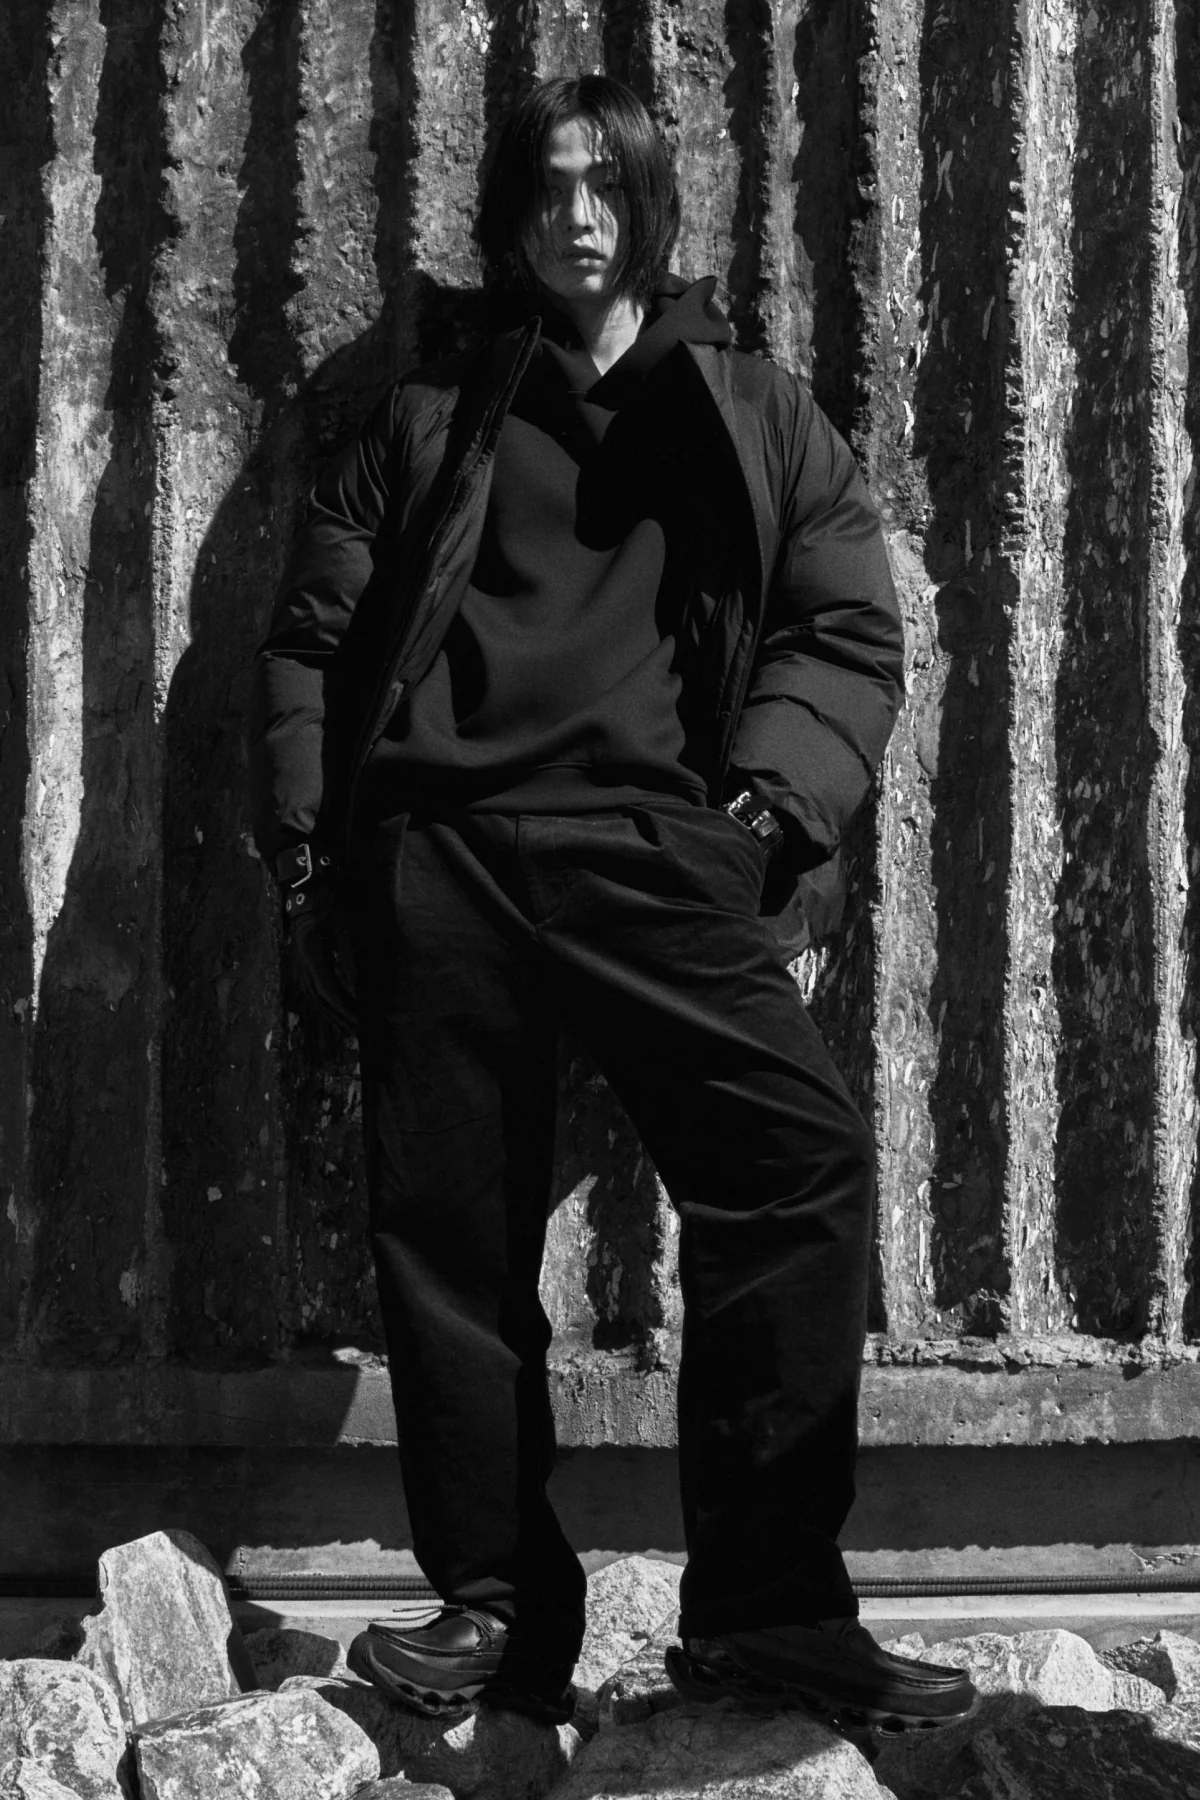
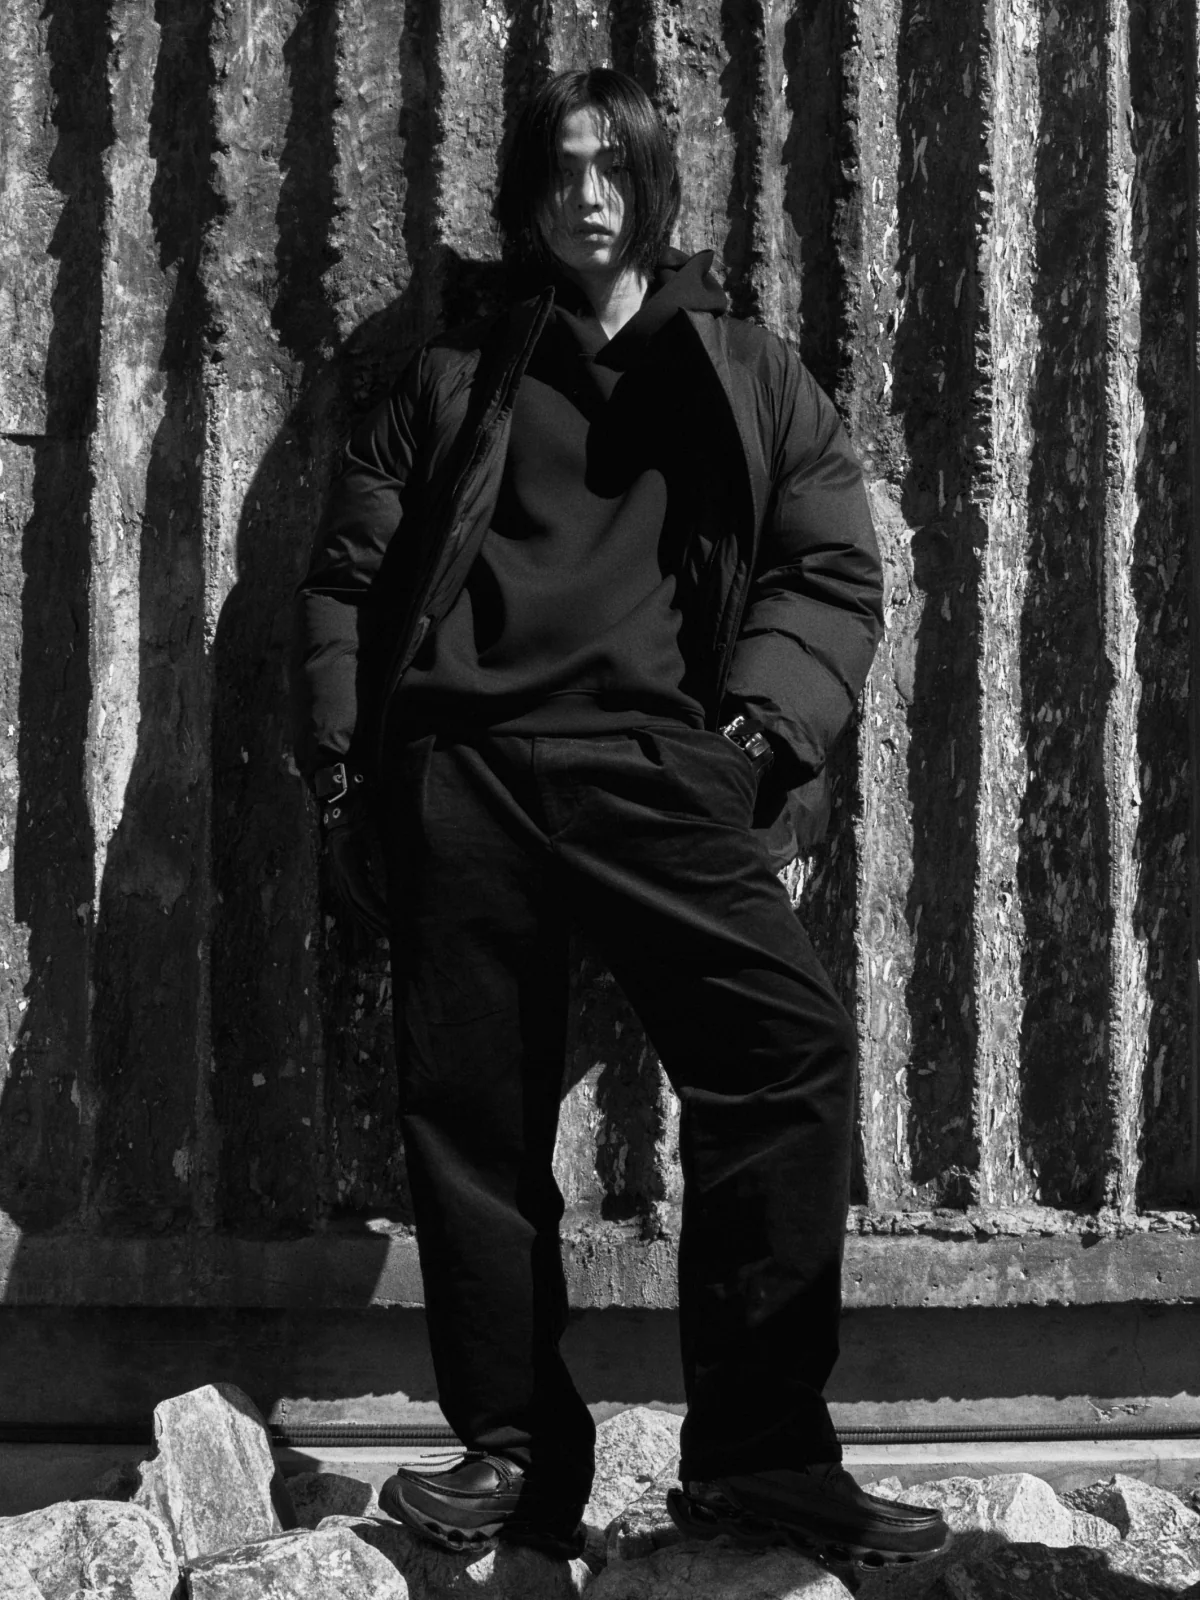
Collection: 3:4 product shots (Figma PD_list 2668:2491, 600×800 frames)

diff --git a/jp/index.html b/jp/index.html
@@ -38,7 +38,7 @@
   <link rel="stylesheet" href="https://cdn.jsdelivr.net/gh/orioncactus/pretendard@v1.3.9/dist/web/static/pretendard.min.css" />
   <link rel="stylesheet" href="https://fonts.googleapis.com/css2?family=Noto+Sans+JP:wght@400&display=swap" />
   <link rel="stylesheet" href="https://cdn.jsdelivr.net/gh/orioncactus/pretendard@v1.3.9/dist/web/static/pretendard-jp.min.css" />
-  <link rel="stylesheet" href="../style.css?v=20261012144335" />
+  <link rel="stylesheet" href="../style.css?v=20261012152353" />
   <script type="importmap">{ "imports": { "three": "https://unpkg.com/three@0.160.0/build/three.module.min.js" } }</script>
   <script>
     // The intro plays until it has been seen through once in this browsing
@@ -231,39 +231,39 @@
         <div class="collection__track" data-drag-scroll data-lenis-prevent-horizontal>
           <ul class="collection__strip">
           <li class="product">
-            <div class="product__media"><img src="../img/product-1@2x.webp" srcset="../img/product-1@1x.webp 600w, ../img/product-1@2x.webp 1200w" sizes="(max-width: 767px) 48vw, 315px" width="1200" height="1800" alt="" loading="lazy" /></div>
+            <div class="product__media"><img src="../img/product-1@2x.webp" srcset="../img/product-1@1x.webp 600w, ../img/product-1@2x.webp 1200w" sizes="(max-width: 767px) 48vw, 315px" width="1200" height="1600" alt="" loading="lazy" /></div>
             <p class="product__name">SHELTER 3LAYER JUMPER</p>
           </li>
           <li class="product">
-            <div class="product__media"><img src="../img/product-2@2x.webp" srcset="../img/product-2@1x.webp 600w, ../img/product-2@2x.webp 1200w" sizes="(max-width: 767px) 48vw, 315px" width="1200" height="1800" alt="" loading="lazy" /></div>
+            <div class="product__media"><img src="../img/product-2@2x.webp" srcset="../img/product-2@1x.webp 600w, ../img/product-2@2x.webp 1200w" sizes="(max-width: 767px) 48vw, 315px" width="1200" height="1600" alt="" loading="lazy" /></div>
             <p class="product__name">SHELTER 3LAYER JACKET</p>
           </li>
           <li class="product">
-            <div class="product__media"><img src="../img/product-3@2x.webp" srcset="../img/product-3@1x.webp 600w, ../img/product-3@2x.webp 1200w" sizes="(max-width: 767px) 48vw, 315px" width="1200" height="1800" alt="" loading="lazy" /></div>
+            <div class="product__media"><img src="../img/product-3@2x.webp" srcset="../img/product-3@1x.webp 600w, ../img/product-3@2x.webp 1200w" sizes="(max-width: 767px) 48vw, 315px" width="1200" height="1600" alt="" loading="lazy" /></div>
             <p class="product__name">SHELTER 3LAYER COAT</p>
           </li>
           <li class="product">
-            <div class="product__media"><img src="../img/product-4@2x.webp" srcset="../img/product-4@1x.webp 600w, ../img/product-4@2x.webp 1200w" sizes="(max-width: 767px) 48vw, 315px" width="1200" height="1800" alt="" loading="lazy" /></div>
+            <div class="product__media"><img src="../img/product-4@2x.webp" srcset="../img/product-4@1x.webp 600w, ../img/product-4@2x.webp 1200w" sizes="(max-width: 767px) 48vw, 315px" width="1200" height="1600" alt="" loading="lazy" /></div>
             <p class="product__name">EXOSHELL GOOSE DOWN PARKA</p>
           </li>
           <li class="product">
-            <div class="product__media"><img src="../img/product-5@2x.webp" srcset="../img/product-5@1x.webp 600w, ../img/product-5@2x.webp 1200w" sizes="(max-width: 767px) 48vw, 315px" width="1200" height="1800" alt="" loading="lazy" /></div>
+            <div class="product__media"><img src="../img/product-5@2x.webp" srcset="../img/product-5@1x.webp 600w, ../img/product-5@2x.webp 1200w" sizes="(max-width: 767px) 48vw, 315px" width="1200" height="1600" alt="" loading="lazy" /></div>
             <p class="product__name">FRAME WOVEN S/S TEE</p>
           </li>
           <li class="product">
-            <div class="product__media"><img src="../img/product-6@2x.webp" srcset="../img/product-6@1x.webp 600w, ../img/product-6@2x.webp 1200w" sizes="(max-width: 767px) 48vw, 315px" width="1200" height="1800" alt="" loading="lazy" /></div>
+            <div class="product__media"><img src="../img/product-6@2x.webp" srcset="../img/product-6@1x.webp 600w, ../img/product-6@2x.webp 1200w" sizes="(max-width: 767px) 48vw, 315px" width="1200" height="1600" alt="" loading="lazy" /></div>
             <p class="product__name">FRAME WAFFLE L/S TEE</p>
           </li>
           <li class="product">
-            <div class="product__media"><img src="../img/product-7@2x.webp" srcset="../img/product-7@1x.webp 600w, ../img/product-7@2x.webp 1200w" sizes="(max-width: 767px) 48vw, 315px" width="1200" height="1800" alt="" loading="lazy" /></div>
+            <div class="product__media"><img src="../img/product-7@2x.webp" srcset="../img/product-7@1x.webp 600w, ../img/product-7@2x.webp 1200w" sizes="(max-width: 767px) 48vw, 315px" width="1200" height="1600" alt="" loading="lazy" /></div>
             <p class="product__name">FRAME TWILL HOODIE</p>
           </li>
           <li class="product">
-            <div class="product__media"><img src="../img/product-8@2x.webp" srcset="../img/product-8@1x.webp 600w, ../img/product-8@2x.webp 1200w" sizes="(max-width: 767px) 48vw, 315px" width="1200" height="1800" alt="" loading="lazy" /></div>
+            <div class="product__media"><img src="../img/product-8@2x.webp" srcset="../img/product-8@1x.webp 600w, ../img/product-8@2x.webp 1200w" sizes="(max-width: 767px) 48vw, 315px" width="1200" height="1600" alt="" loading="lazy" /></div>
             <p class="product__name">SHELTER NYLON TROUSERS</p>
           </li>
           <li class="product">
-            <div class="product__media"><img src="../img/product-9@2x.webp" srcset="../img/product-9@1x.webp 600w, ../img/product-9@2x.webp 1200w" sizes="(max-width: 767px) 48vw, 315px" width="1200" height="1800" alt="" loading="lazy" /></div>
+            <div class="product__media"><img src="../img/product-9@2x.webp" srcset="../img/product-9@1x.webp 600w, ../img/product-9@2x.webp 1200w" sizes="(max-width: 767px) 48vw, 315px" width="1200" height="1600" alt="" loading="lazy" /></div>
             <p class="product__name">SHELTER CORDUROY TROUSERS</p>
           </li>
           </ul>
@@ -293,7 +293,7 @@
   </main>
 
   <script src="https://cdn.jsdelivr.net/npm/lenis@1.3.26/dist/lenis.min.js"></script>
-  <script src="../main.js?v=20261012144335"></script>
-  <script type="module" src="../intro/intro.js?v=20261012144335" onerror="window.aansSkipIntro && window.aansSkipIntro()"></script>
+  <script src="../main.js?v=20261012152353"></script>
+  <script type="module" src="../intro/intro.js?v=20261012152353" onerror="window.aansSkipIntro && window.aansSkipIntro()"></script>
 </body>
 </html>

diff --git a/kr/index.html b/kr/index.html
@@ -36,7 +36,7 @@
   <link rel="preconnect" href="https://fonts.gstatic.com" crossorigin />
   <link rel="stylesheet" href="https://fonts.googleapis.com/css2?family=Oswald:wght@300;400;500&display=swap" />
   <link rel="stylesheet" href="https://cdn.jsdelivr.net/gh/orioncactus/pretendard@v1.3.9/dist/web/static/pretendard.min.css" />
-  <link rel="stylesheet" href="../style.css?v=20261012144335" />
+  <link rel="stylesheet" href="../style.css?v=20261012152353" />
   <script type="importmap">{ "imports": { "three": "https://unpkg.com/three@0.160.0/build/three.module.min.js" } }</script>
   <script>
     // The intro plays until it has been seen through once in this browsing
@@ -229,39 +229,39 @@
         <div class="collection__track" data-drag-scroll data-lenis-prevent-horizontal>
           <ul class="collection__strip">
           <li class="product">
-            <div class="product__media"><img src="../img/product-1@2x.webp" srcset="../img/product-1@1x.webp 600w, ../img/product-1@2x.webp 1200w" sizes="(max-width: 767px) 48vw, 315px" width="1200" height="1800" alt="" loading="lazy" /></div>
+            <div class="product__media"><img src="../img/product-1@2x.webp" srcset="../img/product-1@1x.webp 600w, ../img/product-1@2x.webp 1200w" sizes="(max-width: 767px) 48vw, 315px" width="1200" height="1600" alt="" loading="lazy" /></div>
             <p class="product__name">SHELTER 3LAYER JUMPER</p>
           </li>
           <li class="product">
-            <div class="product__media"><img src="../img/product-2@2x.webp" srcset="../img/product-2@1x.webp 600w, ../img/product-2@2x.webp 1200w" sizes="(max-width: 767px) 48vw, 315px" width="1200" height="1800" alt="" loading="lazy" /></div>
+            <div class="product__media"><img src="../img/product-2@2x.webp" srcset="../img/product-2@1x.webp 600w, ../img/product-2@2x.webp 1200w" sizes="(max-width: 767px) 48vw, 315px" width="1200" height="1600" alt="" loading="lazy" /></div>
             <p class="product__name">SHELTER 3LAYER JACKET</p>
           </li>
           <li class="product">
-            <div class="product__media"><img src="../img/product-3@2x.webp" srcset="../img/product-3@1x.webp 600w, ../img/product-3@2x.webp 1200w" sizes="(max-width: 767px) 48vw, 315px" width="1200" height="1800" alt="" loading="lazy" /></div>
+            <div class="product__media"><img src="../img/product-3@2x.webp" srcset="../img/product-3@1x.webp 600w, ../img/product-3@2x.webp 1200w" sizes="(max-width: 767px) 48vw, 315px" width="1200" height="1600" alt="" loading="lazy" /></div>
             <p class="product__name">SHELTER 3LAYER COAT</p>
           </li>
           <li class="product">
-            <div class="product__media"><img src="../img/product-4@2x.webp" srcset="../img/product-4@1x.webp 600w, ../img/product-4@2x.webp 1200w" sizes="(max-width: 767px) 48vw, 315px" width="1200" height="1800" alt="" loading="lazy" /></div>
+            <div class="product__media"><img src="../img/product-4@2x.webp" srcset="../img/product-4@1x.webp 600w, ../img/product-4@2x.webp 1200w" sizes="(max-width: 767px) 48vw, 315px" width="1200" height="1600" alt="" loading="lazy" /></div>
             <p class="product__name">EXOSHELL GOOSE DOWN PARKA</p>
           </li>
           <li class="product">
-            <div class="product__media"><img src="../img/product-5@2x.webp" srcset="../img/product-5@1x.webp 600w, ../img/product-5@2x.webp 1200w" sizes="(max-width: 767px) 48vw, 315px" width="1200" height="1800" alt="" loading="lazy" /></div>
+            <div class="product__media"><img src="../img/product-5@2x.webp" srcset="../img/product-5@1x.webp 600w, ../img/product-5@2x.webp 1200w" sizes="(max-width: 767px) 48vw, 315px" width="1200" height="1600" alt="" loading="lazy" /></div>
             <p class="product__name">FRAME WOVEN S/S TEE</p>
           </li>
           <li class="product">
-            <div class="product__media"><img src="../img/product-6@2x.webp" srcset="../img/product-6@1x.webp 600w, ../img/product-6@2x.webp 1200w" sizes="(max-width: 767px) 48vw, 315px" width="1200" height="1800" alt="" loading="lazy" /></div>
+            <div class="product__media"><img src="../img/product-6@2x.webp" srcset="../img/product-6@1x.webp 600w, ../img/product-6@2x.webp 1200w" sizes="(max-width: 767px) 48vw, 315px" width="1200" height="1600" alt="" loading="lazy" /></div>
             <p class="product__name">FRAME WAFFLE L/S TEE</p>
           </li>
           <li class="product">
-            <div class="product__media"><img src="../img/product-7@2x.webp" srcset="../img/product-7@1x.webp 600w, ../img/product-7@2x.webp 1200w" sizes="(max-width: 767px) 48vw, 315px" width="1200" height="1800" alt="" loading="lazy" /></div>
+            <div class="product__media"><img src="../img/product-7@2x.webp" srcset="../img/product-7@1x.webp 600w, ../img/product-7@2x.webp 1200w" sizes="(max-width: 767px) 48vw, 315px" width="1200" height="1600" alt="" loading="lazy" /></div>
             <p class="product__name">FRAME TWILL HOODIE</p>
           </li>
           <li class="product">
-            <div class="product__media"><img src="../img/product-8@2x.webp" srcset="../img/product-8@1x.webp 600w, ../img/product-8@2x.webp 1200w" sizes="(max-width: 767px) 48vw, 315px" width="1200" height="1800" alt="" loading="lazy" /></div>
+            <div class="product__media"><img src="../img/product-8@2x.webp" srcset="../img/product-8@1x.webp 600w, ../img/product-8@2x.webp 1200w" sizes="(max-width: 767px) 48vw, 315px" width="1200" height="1600" alt="" loading="lazy" /></div>
             <p class="product__name">SHELTER NYLON TROUSERS</p>
           </li>
           <li class="product">
-            <div class="product__media"><img src="../img/product-9@2x.webp" srcset="../img/product-9@1x.webp 600w, ../img/product-9@2x.webp 1200w" sizes="(max-width: 767px) 48vw, 315px" width="1200" height="1800" alt="" loading="lazy" /></div>
+            <div class="product__media"><img src="../img/product-9@2x.webp" srcset="../img/product-9@1x.webp 600w, ../img/product-9@2x.webp 1200w" sizes="(max-width: 767px) 48vw, 315px" width="1200" height="1600" alt="" loading="lazy" /></div>
             <p class="product__name">SHELTER CORDUROY TROUSERS</p>
           </li>
           </ul>
@@ -291,7 +291,7 @@
   </main>
 
   <script src="https://cdn.jsdelivr.net/npm/lenis@1.3.26/dist/lenis.min.js"></script>
-  <script src="../main.js?v=20261012144335"></script>
-  <script type="module" src="../intro/intro.js?v=20261012144335" onerror="window.aansSkipIntro && window.aansSkipIntro()"></script>
+  <script src="../main.js?v=20261012152353"></script>
+  <script type="module" src="../intro/intro.js?v=20261012152353" onerror="window.aansSkipIntro && window.aansSkipIntro()"></script>
 </body>
 </html>

diff --git a/index.html b/index.html
@@ -37,7 +37,7 @@
   <link rel="stylesheet" href="https://fonts.googleapis.com/css2?family=Oswald:wght@300;400;500&display=swap" />
   <link rel="stylesheet" href="https://cdn.jsdelivr.net/gh/orioncactus/pretendard@v1.3.9/dist/web/static/pretendard.min.css" />
   <link rel="stylesheet" href="https://fonts.googleapis.com/css2?family=Inter:wght@400&display=swap" />
-  <link rel="stylesheet" href="style.css?v=20261012144335" />
+  <link rel="stylesheet" href="style.css?v=20261012152353" />
   <script type="importmap">{ "imports": { "three": "https://unpkg.com/three@0.160.0/build/three.module.min.js" } }</script>
   <script>
     // The intro plays until it has been seen through once in this browsing
@@ -230,39 +230,39 @@
         <div class="collection__track" data-drag-scroll data-lenis-prevent-horizontal>
           <ul class="collection__strip">
           <li class="product">
-            <div class="product__media"><img src="img/product-1@2x.webp" srcset="img/product-1@1x.webp 600w, img/product-1@2x.webp 1200w" sizes="(max-width: 767px) 48vw, 315px" width="1200" height="1800" alt="" loading="lazy" /></div>
+            <div class="product__media"><img src="img/product-1@2x.webp" srcset="img/product-1@1x.webp 600w, img/product-1@2x.webp 1200w" sizes="(max-width: 767px) 48vw, 315px" width="1200" height="1600" alt="" loading="lazy" /></div>
             <p class="product__name">SHELTER 3LAYER JUMPER</p>
           </li>
           <li class="product">
-            <div class="product__media"><img src="img/product-2@2x.webp" srcset="img/product-2@1x.webp 600w, img/product-2@2x.webp 1200w" sizes="(max-width: 767px) 48vw, 315px" width="1200" height="1800" alt="" loading="lazy" /></div>
+            <div class="product__media"><img src="img/product-2@2x.webp" srcset="img/product-2@1x.webp 600w, img/product-2@2x.webp 1200w" sizes="(max-width: 767px) 48vw, 315px" width="1200" height="1600" alt="" loading="lazy" /></div>
             <p class="product__name">SHELTER 3LAYER JACKET</p>
           </li>
           <li class="product">
-            <div class="product__media"><img src="img/product-3@2x.webp" srcset="img/product-3@1x.webp 600w, img/product-3@2x.webp 1200w" sizes="(max-width: 767px) 48vw, 315px" width="1200" height="1800" alt="" loading="lazy" /></div>
+            <div class="product__media"><img src="img/product-3@2x.webp" srcset="img/product-3@1x.webp 600w, img/product-3@2x.webp 1200w" sizes="(max-width: 767px) 48vw, 315px" width="1200" height="1600" alt="" loading="lazy" /></div>
             <p class="product__name">SHELTER 3LAYER COAT</p>
           </li>
           <li class="product">
-            <div class="product__media"><img src="img/product-4@2x.webp" srcset="img/product-4@1x.webp 600w, img/product-4@2x.webp 1200w" sizes="(max-width: 767px) 48vw, 315px" width="1200" height="1800" alt="" loading="lazy" /></div>
+            <div class="product__media"><img src="img/product-4@2x.webp" srcset="img/product-4@1x.webp 600w, img/product-4@2x.webp 1200w" sizes="(max-width: 767px) 48vw, 315px" width="1200" height="1600" alt="" loading="lazy" /></div>
             <p class="product__name">EXOSHELL GOOSE DOWN PARKA</p>
           </li>
           <li class="product">
-            <div class="product__media"><img src="img/product-5@2x.webp" srcset="img/product-5@1x.webp 600w, img/product-5@2x.webp 1200w" sizes="(max-width: 767px) 48vw, 315px" width="1200" height="1800" alt="" loading="lazy" /></div>
+            <div class="product__media"><img src="img/product-5@2x.webp" srcset="img/product-5@1x.webp 600w, img/product-5@2x.webp 1200w" sizes="(max-width: 767px) 48vw, 315px" width="1200" height="1600" alt="" loading="lazy" /></div>
             <p class="product__name">FRAME WOVEN S/S TEE</p>
           </li>
           <li class="product">
-            <div class="product__media"><img src="img/product-6@2x.webp" srcset="img/product-6@1x.webp 600w, img/product-6@2x.webp 1200w" sizes="(max-width: 767px) 48vw, 315px" width="1200" height="1800" alt="" loading="lazy" /></div>
+            <div class="product__media"><img src="img/product-6@2x.webp" srcset="img/product-6@1x.webp 600w, img/product-6@2x.webp 1200w" sizes="(max-width: 767px) 48vw, 315px" width="1200" height="1600" alt="" loading="lazy" /></div>
             <p class="product__name">FRAME WAFFLE L/S TEE</p>
           </li>
           <li class="product">
-            <div class="product__media"><img src="img/product-7@2x.webp" srcset="img/product-7@1x.webp 600w, img/product-7@2x.webp 1200w" sizes="(max-width: 767px) 48vw, 315px" width="1200" height="1800" alt="" loading="lazy" /></div>
+            <div class="product__media"><img src="img/product-7@2x.webp" srcset="img/product-7@1x.webp 600w, img/product-7@2x.webp 1200w" sizes="(max-width: 767px) 48vw, 315px" width="1200" height="1600" alt="" loading="lazy" /></div>
             <p class="product__name">FRAME TWILL HOODIE</p>
           </li>
           <li class="product">
-            <div class="product__media"><img src="img/product-8@2x.webp" srcset="img/product-8@1x.webp 600w, img/product-8@2x.webp 1200w" sizes="(max-width: 767px) 48vw, 315px" width="1200" height="1800" alt="" loading="lazy" /></div>
+            <div class="product__media"><img src="img/product-8@2x.webp" srcset="img/product-8@1x.webp 600w, img/product-8@2x.webp 1200w" sizes="(max-width: 767px) 48vw, 315px" width="1200" height="1600" alt="" loading="lazy" /></div>
             <p class="product__name">SHELTER NYLON TROUSERS</p>
           </li>
           <li class="product">
-            <div class="product__media"><img src="img/product-9@2x.webp" srcset="img/product-9@1x.webp 600w, img/product-9@2x.webp 1200w" sizes="(max-width: 767px) 48vw, 315px" width="1200" height="1800" alt="" loading="lazy" /></div>
+            <div class="product__media"><img src="img/product-9@2x.webp" srcset="img/product-9@1x.webp 600w, img/product-9@2x.webp 1200w" sizes="(max-width: 767px) 48vw, 315px" width="1200" height="1600" alt="" loading="lazy" /></div>
             <p class="product__name">SHELTER CORDUROY TROUSERS</p>
           </li>
           </ul>
@@ -292,7 +292,7 @@
   </main>
 
   <script src="https://cdn.jsdelivr.net/npm/lenis@1.3.26/dist/lenis.min.js"></script>
-  <script src="main.js?v=20261012144335"></script>
-  <script type="module" src="intro/intro.js?v=20261012144335" onerror="window.aansSkipIntro && window.aansSkipIntro()"></script>
+  <script src="main.js?v=20261012152353"></script>
+  <script type="module" src="intro/intro.js?v=20261012152353" onerror="window.aansSkipIntro && window.aansSkipIntro()"></script>
 </body>
 </html>

diff --git a/intro/intro.js b/intro/intro.js
@@ -1,6 +1,6 @@
 import * as THREE from "three";
-import { VERTEX_SHADER, FRAGMENT_SHADER } from "./shaders.js?v=20261012144335";
-import { loadLogoTexture } from "./logoTexture.js?v=20261012144335";
+import { VERTEX_SHADER, FRAGMENT_SHADER } from "./shaders.js?v=20261012152353";
+import { loadLogoTexture } from "./logoTexture.js?v=20261012152353";
 
 // Intro (Figma A_Intro, 2597:1545), layered over the top of the home page.
 //

diff --git a/style.css b/style.css
@@ -766,12 +766,12 @@ html[lang="en"] .body {
   gap: 7px;
 }
 
-/* Each card is one full-bleed 2:3 shot (Figma PD_list 2668:2491: 600×900
+/* Each card is one full-bleed 3:4 shot (Figma PD_list 2668:2491: 600×800
    frames, exported as composed, 2×) */
 .product__media {
   position: relative;
   overflow: hidden;
-  aspect-ratio: 2 / 3;
+  aspect-ratio: 3 / 4;
   background: #1a1a1a;
 }
 

diff --git a/intro/logoTexture.js b/intro/logoTexture.js
@@ -1,5 +1,5 @@
 import * as THREE from "three";
-import { signedDistanceField } from "./sdf.js?v=20261012144335";
+import { signedDistanceField } from "./sdf.js?v=20261012152353";
 
 // Rasterizes the logo's SVG path(s) FILLED onto an offscreen canvas, then
 // bakes a real signed distance field from that mask (see sdf.js). The shader
